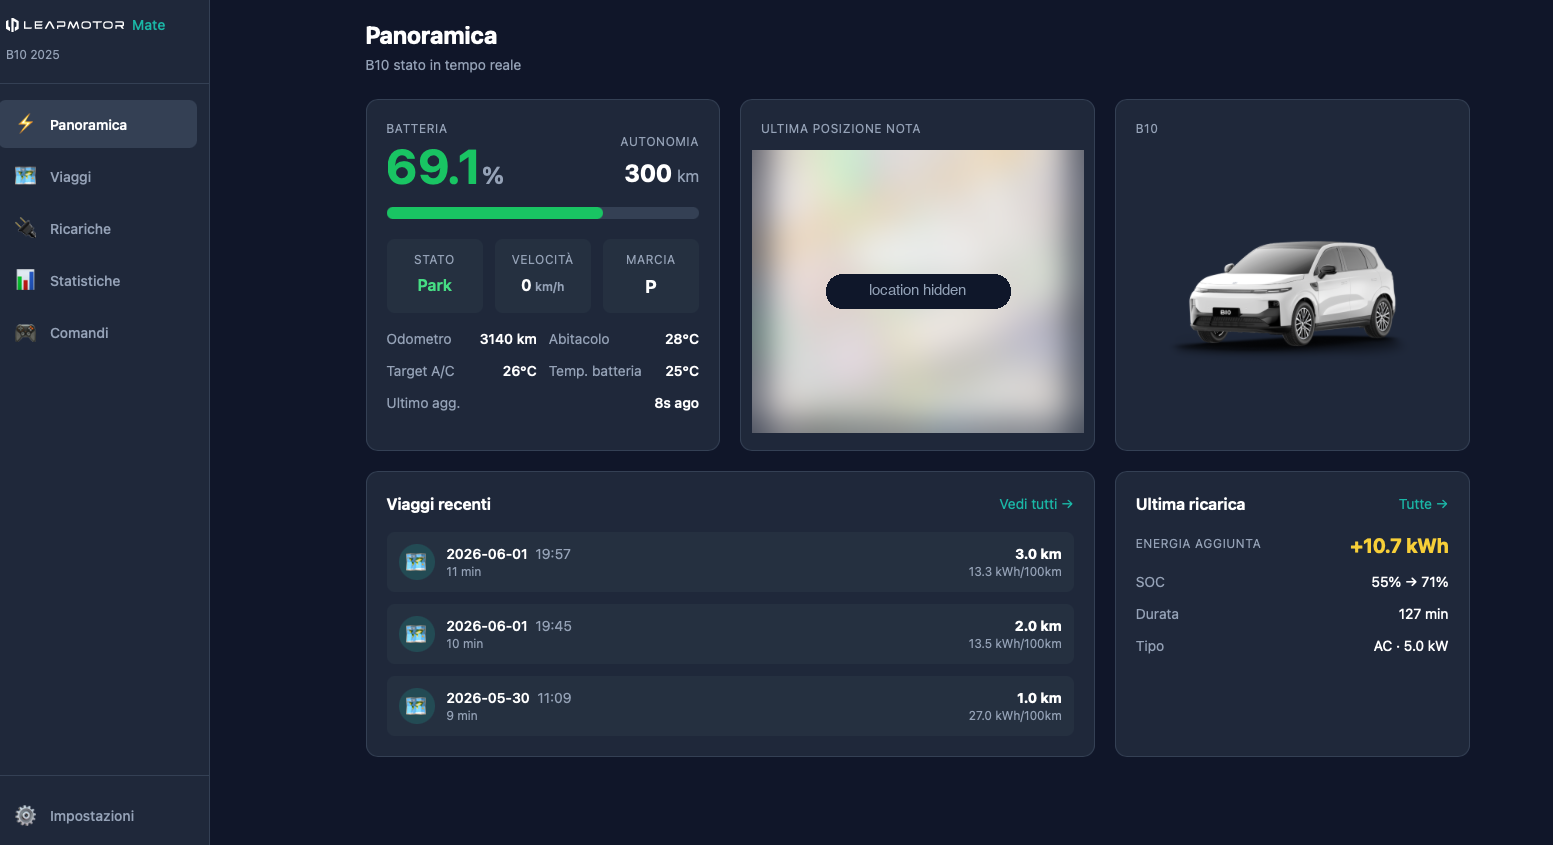
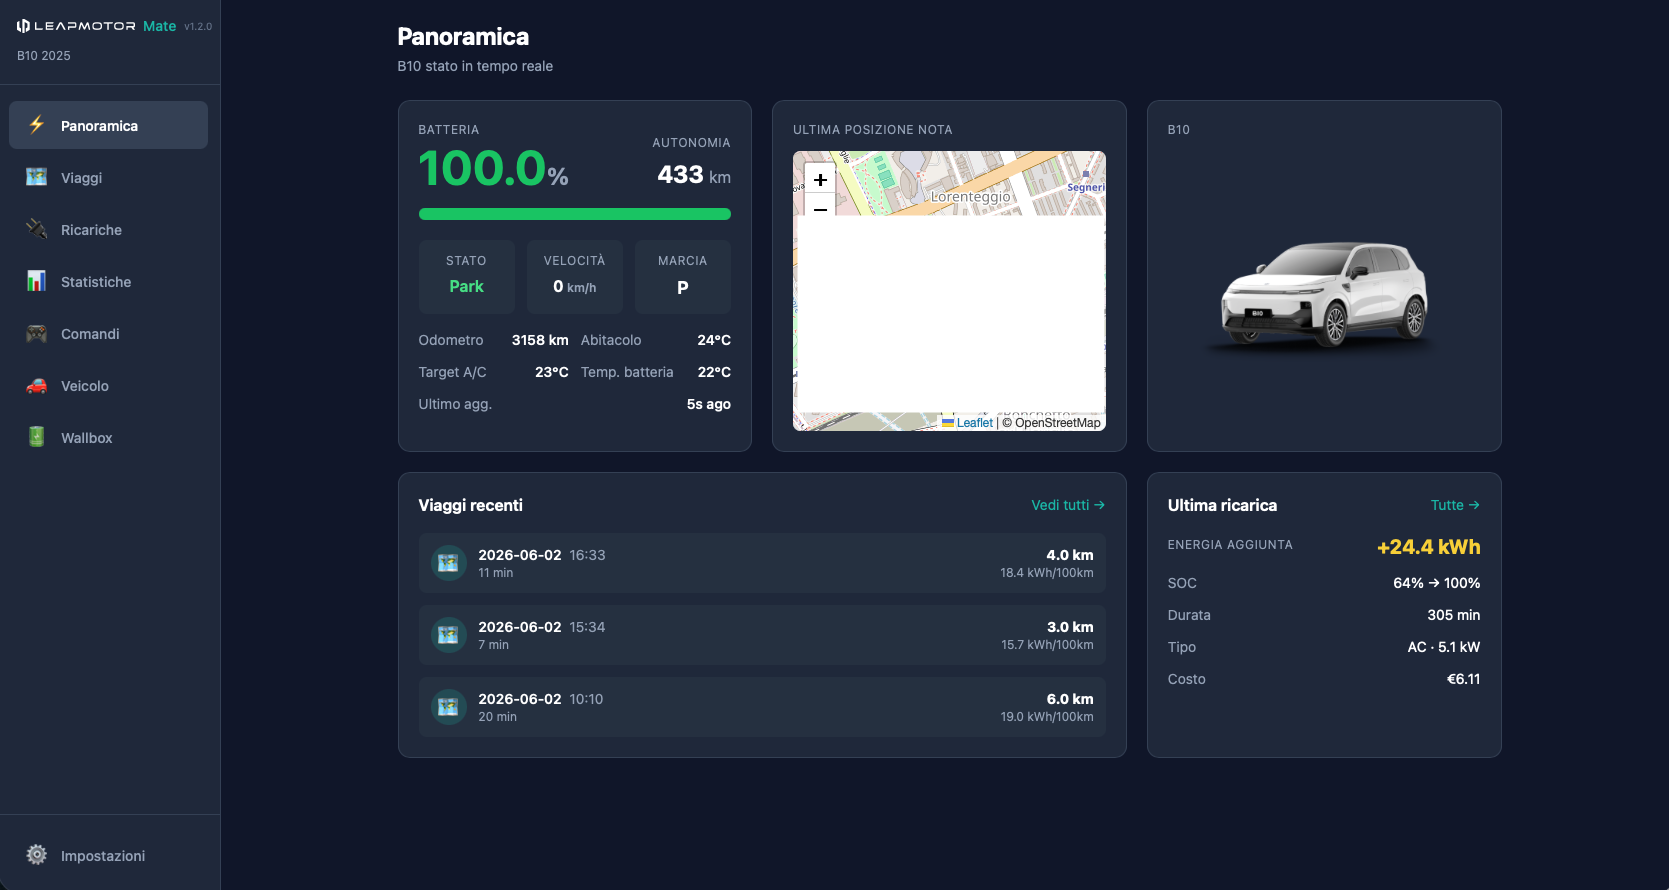
docs: refresh screenshots for v1.2.0 (Overview, Trips, Charges, Wallbox, Statistics, Commands)
Replace the old screenshots with current ones and expand the README gallery to a
2×3 grid (EN + IT), adding the redesigned Trips page and the new Wallbox page.

diff --git a/README.md b/README.md
@@ -8,11 +8,13 @@ Supported models: **B10 · C10 · T03** (European spec).
 
 ## Screenshots
 
-| Overview | Charges |
+| Overview | Trips |
 |---|---|
-| ![Overview](docs/screenshots/overview.png) | ![Charges](docs/screenshots/charges.png) |
-| **Statistics** | **Settings** |
-| ![Statistics](docs/screenshots/statistics.png) | ![Settings](docs/screenshots/settings.png) |
+| ![Overview](docs/screenshots/overview.png) | ![Trips](docs/screenshots/trips.png) |
+| **Charges** | **Wallbox** |
+| ![Charges](docs/screenshots/charges.png) | ![Wallbox](docs/screenshots/wallbox.png) |
+| **Statistics** | **Commands** |
+| ![Statistics](docs/screenshots/statistics.png) | ![Commands](docs/screenshots/commands.png) |
 
 ---
 
@@ -144,11 +146,13 @@ Modelli supportati: **B10 · C10 · T03** (spec. europea).
 
 ## Schermate
 
-| Panoramica | Ricariche |
+| Panoramica | Viaggi |
 |---|---|
-| ![Panoramica](docs/screenshots/overview.png) | ![Ricariche](docs/screenshots/charges.png) |
-| **Statistiche** | **Impostazioni** |
-| ![Statistiche](docs/screenshots/statistics.png) | ![Impostazioni](docs/screenshots/settings.png) |
+| ![Panoramica](docs/screenshots/overview.png) | ![Viaggi](docs/screenshots/trips.png) |
+| **Ricariche** | **Wallbox** |
+| ![Ricariche](docs/screenshots/charges.png) | ![Wallbox](docs/screenshots/wallbox.png) |
+| **Statistiche** | **Comandi** |
+| ![Statistiche](docs/screenshots/statistics.png) | ![Comandi](docs/screenshots/commands.png) |
 
 ## Funzionalità
 